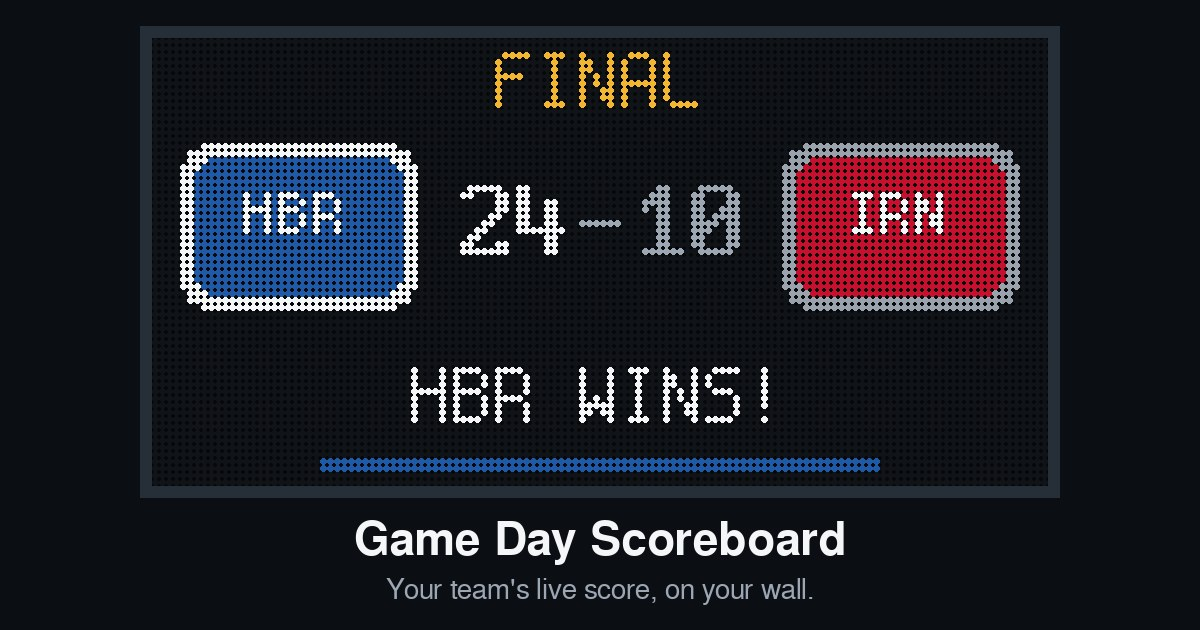
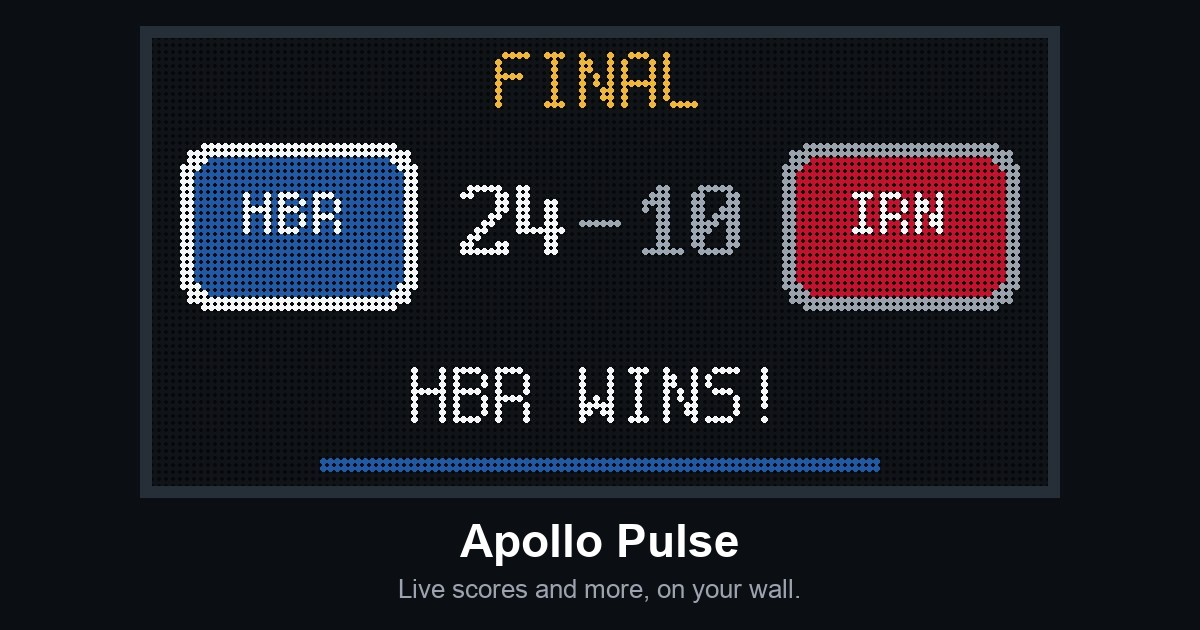
The docs call the ready-made panel and the What's new page Apollo Pulse, the social preview picture says Apollo Pulse, and the flight, update, start-up and football pages say more exactly when a registration, the orange line, Apollo beside the update words and the Up next list show.

Changed region(s): [[0.2775, 0.8143, 0.7092, 0.9651]]

diff --git a/docs/wiki/src/content/docs/using/updates.md b/docs/wiki/src/content/docs/using/updates.md
@@ -32,6 +32,10 @@ If the check can't reach the update server, the page says **Could not reach the 
 
 When an update is out, a bar at the top of the device page says **Update available** and the version (or **Update didn't take** or **Update didn't install** for one that failed), with **Install** and **Later**. **Install** asks to confirm, just like the button in the Firmware box. With **Install updates automatically** on, the bar and the Firmware box add **It installs on its own between 3 and 5 AM.** **Later** hides the bar for that version in that browser; a newer version brings it back, and the Firmware box still offers it. While an update installs, the bar says **Installing** and the version, **Keep the panel powered.**, and the panel itself says **Updating**, **Keep it plugged in** and **Back in a minute** in big words across its whole width (**Updating**, **Keep it**, **plugged in** on a single 64x64 panel) until it restarts on the new version. If the install doesn't go through, the panel goes back to what it was showing.
 
+:::note[Coming in the next release]
+On three or four panels in a row, Apollo the dog sits beside these words, and on two rows of two he sits above them. See [What the panel is telling you](/help/panel-messages/).
+:::
+
 The Device card, where the Firmware box is, starts folded. When an update is out, or one didn't take, the card opens by itself with **Install** in sight, unless you've opened or folded it yourself in that browser. While it's folded, the words beside **Device** say **Update available** and the version, **Update didn't take**, or **Installing** and the version: tap **Device** to open it. See [The Device card](/using/device-page/#the-device-card).
 
 While it installs, the box says **Installing** and the version, with **Keep the panel powered. It reboots when done and this page reconnects.** Leave the panel plugged in until it's back. The page reloads by itself once the panel answers on the new version.

diff --git a/docs/wiki/src/content/docs/get-started/install-firmware.md b/docs/wiki/src/content/docs/get-started/install-firmware.md
@@ -5,7 +5,7 @@ sidebar:
   order: 5
 ---
 
-An Apollo M-1 ships with WLED, so you install Apollo Pulse on it once from your browser, as below. A Game Day Scoreboard unit with the scoreboard75 controller board comes with the firmware installed. After that the panel updates itself over Wi-Fi. See [Updates](/using/updates/) for the normal way new versions arrive.
+An Apollo M-1 ships with WLED, so you install Apollo Pulse on it once from your browser, as below. A ready-made Apollo Pulse panel on the scoreboard75 controller board comes with the firmware installed. After that the panel updates itself over Wi-Fi. See [Updates](/using/updates/) for the normal way new versions arrive.
 
 ## When you need it
 
@@ -39,6 +39,6 @@ If the installer says the browser can't talk to the controller over USB, switch 
 
 ## Which controller do I have?
 
-The Apollo M-1 is Apollo Automation's controller, with Rev6 printed on the back. The scoreboard75 is the board built into the Game Day Scoreboard unit that comes with a 128x64 panel. Picking the wrong one installs firmware for other pins, and the panel stays dark; install again with the right choice.
+The Apollo M-1 is Apollo Automation's controller, with Rev6 printed on the back. The scoreboard75 is the board built into the ready-made panel that comes with a 128x64 panel. Picking the wrong one installs firmware for other pins, and the panel stays dark; install again with the right choice.
 
 A MoonHub75 board uses the Apollo M-1 choices. For your own ESP32-S3 board, see [Install on your own board](/diy/install/).

diff --git a/docs/wiki/src/content/docs/using/flights.md b/docs/wiki/src/content/docs/using/flights.md
@@ -34,7 +34,7 @@ The nearest plane's card has:
 
 - its callsign, like **DAL2503**, or its registration when it has no callsign, in red during an emergency (squawk 7500, 7600 or 7700, or an emergency the plane declares; an air ambulance's lifeguard flag or low fuel isn't one)
 - the airline, like **Delta**, or the aircraft type for a private plane
-- the route, like **ORD-LGA**, in gold, when it's known; otherwise the flight number, like **DL2503**, when it isn't the same as the callsign, or else the registration, like **N123AB**, and nothing when the plane has neither
+- the route, like **ORD-LGA**, in gold, when it's known; otherwise the flight number, like **DL2503**, when it isn't the same as the callsign, or else the registration, like **N123AB**, when the top line isn't already showing it, and nothing when there's neither
 - the aircraft type, like **Airbus A220-300** (just the code, like **BCS3**, on one 64x64 panel)
 - the altitude and the ground speed
 - how far away it is and in which direction, like **2.4 mi SW**

diff --git a/docs/wiki/src/content/docs/using/football.md b/docs/wiki/src/content/docs/using/football.md
@@ -13,7 +13,7 @@ The next-game card shows both team logos, your team on the left, with each team'
 
 Before the game the board leaves the scores out, so it never reads 0-0. Where the scores go it shows the day, like "Sun", "Tomorrow" or "Sep 14", with the start time, like "4:25 PM", under it. On a single 64x64 panel the day takes the abbreviations' row and the time the scores' row. With **My team today** as the idle display, the countdown, like "in 2h 15m", takes the start time's place. A game with no date yet shows neither.
 
-On the device page, the **Up next** list shows your NFL or college team's next three games after the one on the board, with the opponent, the day and time and the TV channel.
+In My team, the **Up next** list on the device page shows your NFL or college team's next three games after the one on the board, with the opponent, the day and time and the TV channel.
 
 The ticker along the bottom carries:
 

diff --git a/docs/wiki/src/content/docs/help/panel-messages.md b/docs/wiki/src/content/docs/help/panel-messages.md
@@ -20,7 +20,7 @@ On 128x64, Apollo has the left half when there's no QR code, with **APOLLO / PUL
 
 On three or four panels in a row, Apollo sits at the left end and the QR code beside him. On two rows of two, Apollo or the QR code sits in the middle of the top half, with the words under it.
 
-On Wi-Fi, the screens that aren't busy, the QR code after joining and the address, show a thin orange line under the name instead of the green bar.
+On Wi-Fi, the screens where the panel isn't busy, like the QR code after joining, the address and **Updating**, show a thin orange line under the name instead of the green bar.
 :::
 
 | The panel says | What it means | What to do |
